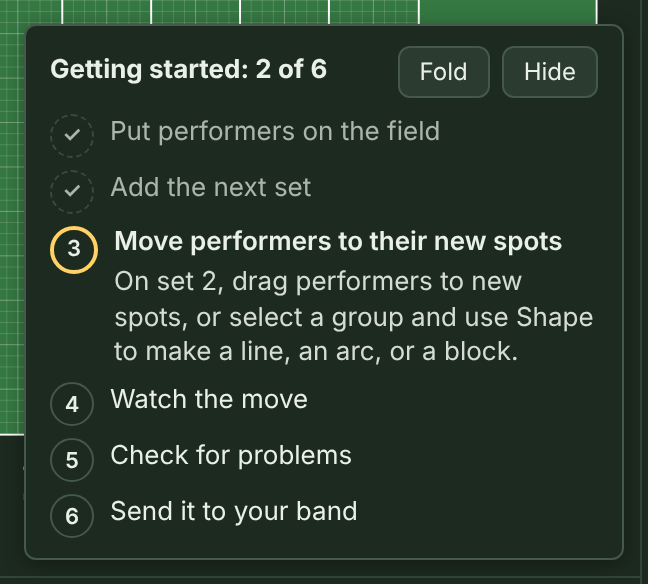
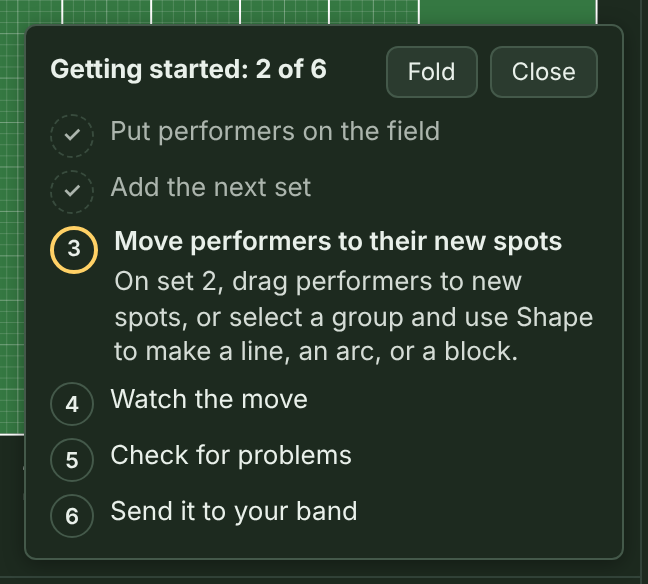
A calmer start: the Start note leads, the checklist is opt-in
- New starts in Select; it no longer pops the Add menu open (Jason).
- The Start your show note opens in the middle of a blank field, and steps
  aside while placing performers.
- The getting-started checklist is chosen, not pushed: "Getting started,
  step by step" on the note, or Help > Getting started checklist. With it on,
  the note becomes its step 1; Close turns it off for that show.

Claude-Session: https://claude.ai/code/session_012ak5ZU6YMQLnq6c3SxmXJ2

Changed region(s): [[0.5864, 0.0616, 0.8642, 0.1849]]

diff --git a/src/App.tsx b/src/App.tsx
@@ -338,25 +338,34 @@ export function App() {
   const warn = useMemo(() => new Set(pathSet < 1 ? [] : overLimit(show, pathSet)), [show, pathSet]); // ringed: over the step limit in this move
   const allIssues = useMemo(() => reviewShow(show), [show]);
   const { open: issues, dismissed } = useMemo(() => splitDismissed(show, allIssues), [show, allIssues]);
-  // The getting-started checklist: for shows started blank in this browser, until hidden (for good) or done. Per show,
-  // what the show can't tell by itself (pressed Play, opened Review, opened Share) is kept in this browser.
-  const gsKey = `freeform:getting-started:${show.id}`, GS_HIDDEN = 'freeform:getting-started-hidden';
+  // The getting-started checklist: turned on for a show with Getting started, step by step (on a blank field's Start note,
+  // or Help), and off with its Close (Jason: it's chosen, not pushed). Per show, what the show can't tell by itself
+  // (pressed Play, opened Review, opened Share) is kept in this browser, with the checklist being on.
+  const gsKey = `freeform:getting-started:${show.id}`;
   const readGs = (): Done | null => { try { const v = localStorage.getItem(gsKey); return v ? JSON.parse(v) : null; } catch { return null; } };
-  const [gs, setGs] = useState<{ id?: string; did: Done | null; hidden: boolean }>(() => ({ id: show.id, did: null, hidden: (() => { try { return localStorage.getItem(GS_HIDDEN) === '1'; } catch { return false; } })() }));
+  const [gs, setGs] = useState<{ id?: string; did: Done | null }>(() => ({ id: show.id, did: null }));
   const gsDid = gs.id === show.id ? gs.did : readGs();
-  const noteGs = (patch: Done) => {
-    const did = gsDid ?? (show.performers.length ? null : {}); // a blank show starts the checklist; one with performers that never had it doesn't
-    if (!did || !show.id) return;
-    const next = { ...did, ...patch };
-    try { localStorage.setItem(gsKey, JSON.stringify(next)); } catch { /* this visit only */ }
-    setGs((g) => ({ ...g, id: show.id, did: next }));
+  const writeGs = (did: Done | null) => {
+    try { if (did) localStorage.setItem(gsKey, JSON.stringify(did)); else localStorage.removeItem(gsKey); } catch { /* this visit only */ }
+    setGs({ id: show.id, did });
   };
-  useEffect(() => { if (!gs.hidden && !show.performers.length && !gsDid && show.id) noteGs({}); }, [show.id, show.performers.length]); // eslint-disable-line react-hooks/exhaustive-deps
+  const noteGs = (patch: Done) => { if (gsDid) writeGs({ ...gsDid, ...patch }); };
   useEffect(() => { if (playing && gsDid && !gsDid.played) noteGs({ played: true }); }, [playing]); // eslint-disable-line react-hooks/exhaustive-deps
   useEffect(() => { if (reviewing && gsDid && !gsDid.reviewed) noteGs({ reviewed: true }); }, [reviewing]); // eslint-disable-line react-hooks/exhaustive-deps
   useEffect(() => { if (sharing && gsDid && !gsDid.shared) noteGs({ shared: true }); }, [sharing]); // eslint-disable-line react-hooks/exhaustive-deps
-  const gsSteps = gsDid && !gs.hidden ? gettingStarted(show, gsDid, issues.length) : null;
-  const hideGs = () => { try { localStorage.setItem(GS_HIDDEN, '1'); } catch { /* this visit only */ } setGs((g) => ({ ...g, hidden: true })); };
+  const startGs = () => { if (!gsDid) writeGs({}); };
+  const hideGs = () => writeGs(null);
+  const gsSteps = gsDid ? gettingStarted(show, gsDid, issues.length) : null;
+  // The ways to begin a blank show: the Start note, and step 1 of the checklist when it's on.
+  const startOptions = <>
+    <span>Place performers on the field, bring in a roster from Excel, or look around the sample show first. On a new computer? Open your show from its phone link or recovery code.</span>
+    <span style={{ display: 'flex', gap: 8, flexWrap: 'wrap', marginTop: 6 }}>
+      <button className="primary" onClick={() => { setTool('add'); setOpenAdd((n) => n + 1); }}>Place performers</button>
+      <button onClick={() => setRoster(true)}>Import a roster…</button>
+      <button onClick={() => trySample()}>Try the sample show</button>
+      <button onClick={() => setLibrary('link')} title="Open a show from the link students use, or from a recovery code from your other computer">Open from a link or recovery code…</button>
+    </span>
+  </>;
   const saved = saveStatus({
     browserOk: saveFailed === 'no', unexported, fileSavedAt, revision: show.revision, changedSincePublish: revisionLabel(show).endsWith('+ changes'),
     when: (ms) => (new Date(ms).toDateString() === new Date().toDateString() ? new Date(ms).toLocaleTimeString([], { hour: 'numeric', minute: '2-digit' }) : new Date(ms).toLocaleDateString([], { month: 'short', day: 'numeric' })),
@@ -885,7 +894,7 @@ export function App() {
   const fresh = async () => {
     await flush();
     openShow(newShow(startingSections())); // nothing to back up yet
-    setTool('add'); setOpenAdd((n) => n + 1); // a blank field: straight to placing performers (Jason)
+    setTool('select'); // the blank field's note leads: Place performers, Import a roster, or the sample (Jason, 2026-11-11)
   };
   const [openAdd, setOpenAdd] = useState(0);
   // The docs' demo show, to look around in before writing one (or the practice show, with problems to fix): a show of its own in the library.
@@ -995,6 +1004,7 @@ export function App() {
             <div style={{ display: 'flex', flexDirection: 'column', gap: 6, alignItems: 'stretch' }}>
               <button onClick={() => { close(); window.open(GUIDE, '_blank', 'noopener'); }} title="The step-by-step guide, with pictures (opens in a new tab)">How-to guide</button>
               <button onClick={() => { close(); trySample(); }} title="Open the 47-performer sample show as a show of its own (yours stays under Shows…)">Try the sample show</button>
+              <button onClick={() => { close(); startGs(); }} disabled={!!gsDid} title={gsDid ? 'The checklist is already on for this show' : 'A short checklist from a blank field to a show on your band\'s phones, for this show'}>Getting started checklist</button>
               <button onClick={() => { close(); trySample(true); }} title="The sample with three problems to find and fix, each explained in its set's notes. Open Review to start (yours stays under Shows…)">Try the practice show</button>
               <button onClick={() => { close(); setFeedback(true); }} title="Report a problem or suggest something: it goes straight to me, with no account needed">Send feedback</button>
               <button onClick={() => { close(); window.open('https://ko-fi.com/tillerdawg', '_blank', 'noopener'); }} title="FreeFORM is free and always will be. A tip on Ko-fi helps with hosting (opens in a new tab)">Support FreeFORM</button>
@@ -1040,15 +1050,18 @@ export function App() {
           }}
           onPointerLeave={() => setHover('')}
         />
-        {show.performers.length === 0 && !otherTab && (
-          <div className="backup-note" role="group" aria-label="Start a show">
-            <span><strong>Start your show.</strong> Place performers on the field, bring in a roster from Excel, or look around the sample show first. On a new computer? Open your show from its phone link or recovery code.</span>
-            <button className="primary" onClick={() => { setTool('add'); setOpenAdd((n) => n + 1); }}>Place performers</button>
-            <button onClick={() => setRoster(true)}>Import a roster…</button>
-            <button onClick={() => trySample()}>Try the sample show</button>
-            <button onClick={() => setLibrary('link')} title="Open a show from the link students use, or from a recovery code from your other computer">Open from a link or recovery code…</button>
-          </div>
-        )}
+        {/* A blank field: the Start note in the middle of the field (Jason). With the checklist on, the note is its step 1.
+            While placing performers, both get out of the field's middle: the checklist moves to the corner, the note goes. */}
+        {show.performers.length === 0 && !otherTab && (gsSteps
+          ? <GettingStarted steps={gsSteps} onHide={hideGs} start={tool === 'select' ? startOptions : undefined} />
+          : tool === 'select' && (
+            <section className="getting-started center" aria-label="Start your show">
+              <strong style={{ display: 'block', fontSize: 16, marginBottom: 6 }}>Start your show</strong>
+              {startOptions}
+              <p style={{ margin: '12px 0 0', paddingTop: 10, borderTop: '1px solid var(--line)' }}>
+                New to writing drill in FreeFORM? <button onClick={startGs} title="A short checklist that walks you from a blank field to a show on your band's phones, and ticks itself off as you go">Getting started, step by step</button>
+              </p>
+            </section>))}
         {otherTab && (
           <div role="alert" className="backup-note">
             <span>"{show.title || 'This show'}" was changed in another tab. Changes here aren't saved until you choose which version to keep.</span>
@@ -1079,7 +1092,7 @@ export function App() {
           <button className="icon" onClick={() => zoomBy(1.25)} title="Zoom in (⌘+ / Ctrl+= with the mouse over the field)" aria-label="Zoom in"><IconZoomIn /></button>
           <button onClick={fit} title="Fit: zoom out to the whole field (F)" aria-label="Fit field"><IconFit /> Fit</button>
         </div>}
-        {gsSteps && !reviewing && <GettingStarted steps={gsSteps} onHide={hideGs} />}
+        {gsSteps && show.performers.length > 0 && !reviewing && <GettingStarted steps={gsSteps} onHide={hideGs} />}
         {reviewing && <ReviewPanel show={show} setShow={setShow} issues={issues} all={allIssues} dismissed={dismissed} onGo={goToIssue} onClose={() => setReviewing(false)} />}
         {/* Floats over the field so its changing length can't move the layout. */}
         {(notice?.t === t || hover) && (

diff --git a/src/ui/GettingStarted.tsx b/src/ui/GettingStarted.tsx
@@ -1,26 +1,29 @@
-// The getting-started checklist card, in the field's bottom-right corner (see gettingStarted.ts for the steps).
-import { useState } from 'react';
+// The getting-started checklist card (see gettingStarted.ts for the steps). On a blank field it's the "Start your show"
+// card in the middle of the field, with step 1's ways to begin as buttons; once performers are on the field it moves to
+// the bottom-right corner, out of the way of the drill.
+import { useState, type ReactNode } from 'react';
 import type { Step } from './gettingStarted';
 
-export function GettingStarted({ steps, onHide }: { steps: Step[]; onHide: () => void }) {
+export function GettingStarted({ steps, onHide, start }: { steps: Step[]; onHide: () => void; start?: ReactNode }) {
   const [small, setSmall] = useState(false);
   const n = steps.filter((s) => s.done).length, next = steps.findIndex((s) => !s.done);
+  const center = !!start && next === 0; // a blank field: the card is where you start
   return (
-    <section className="getting-started" aria-label="Getting started">
+    <section className={center ? 'getting-started center' : 'getting-started'} aria-label={center ? 'Start your show' : 'Getting started'}>
       <div style={{ display: 'flex', alignItems: 'center', gap: 6 }}>
-        <strong style={{ flex: 1 }}>Getting started: {n} of {steps.length}</strong>
-        <button onClick={() => setSmall(!small)} aria-expanded={!small} title={small ? 'Show the steps' : 'Fold the list down to this line'}>{small ? 'Show' : 'Fold'}</button>
-        <button onClick={onHide} title="Hide this list for good (it won't come back on new shows)">Hide</button>
+        <strong style={{ flex: 1, fontSize: center ? 16 : undefined }}>{center ? 'Start your show' : `Getting started: ${n} of ${steps.length}`}</strong>
+        {!center && <button onClick={() => setSmall(!small)} aria-expanded={!small} title={small ? 'Show the steps' : 'Fold the list down to this line'}>{small ? 'Show' : 'Fold'}</button>}
+        <button onClick={onHide} title="Close the checklist for this show (Help, then Getting started checklist, brings it back)">Close</button>
       </div>
       {!small && (next < 0
-        ? <p style={{ margin: '6px 0 0' }}>All six done: you've written a move and sent it to your band. The guide (Help, then How-to guide) has the rest. <strong>Hide</strong> puts this list away.</p>
+        ? <p style={{ margin: '6px 0 0' }}>All six done: you've written a move and sent it to your band. The guide (Help, then How-to guide) has the rest. <strong>Close</strong> puts this list away.</p>
         : <ol>
           {steps.map((s, k) => (
             <li key={s.id} aria-current={k === next ? 'step' : undefined} className={s.done ? 'done' : undefined}>
               <span aria-hidden className="gs-mark">{s.done ? '✓' : k + 1}</span>
-              <span>
+              <span style={{ flex: 1 }}>
                 {s.title}{s.done && <span className="sr-only"> (done)</span>}
-                {k === next && <span className="gs-hint">{s.hint}</span>}
+                {k === next && (center ? <span className="gs-hint gs-start">{start}</span> : <span className="gs-hint">{s.hint}</span>)}
               </span>
             </li>
           ))}

diff --git a/app/index.html b/app/index.html
@@ -170,6 +170,9 @@
       .getting-started { position: absolute; right: 8px; bottom: 8px; width: 300px; max-width: calc(100% - 16px); box-sizing: border-box; padding: 10px 12px;
         background: var(--bg); border: 1px solid var(--line-strong); border-radius: 6px; font-size: 13px; line-height: 1.35; box-shadow: 0 2px 10px rgba(0,0,0,0.35); }
       .getting-started button { font-size: 12px; }
+      .getting-started.center { right: auto; bottom: auto; top: 50%; left: 50%; transform: translate(-50%, -50%); z-index: 5; width: min(520px, calc(100% - 32px));
+        max-height: calc(100% - 16px); overflow-y: auto; padding: 14px 16px; border: 2px solid var(--warn); font-size: 14px; box-shadow: 0 6px 16px rgba(0,0,0,0.45); } /* a blank field: where you start */
+      .getting-started.center .gs-start button { font-size: 14px; }
       .getting-started ol { list-style: none; margin: 8px 0 0; padding: 0; display: grid; gap: 6px; }
       .getting-started li { display: flex; gap: 8px; align-items: flex-start; }
       .getting-started li.done { opacity: 0.7; }

diff --git a/docs/HOW-TO.md b/docs/HOW-TO.md
@@ -50,7 +50,7 @@ One thing to know up front: **your shows are saved in the browser you're using.*
 
 From top to bottom:
 
-- **The top bar** has the logo, a reminder of how to move around the field, **Help** (the **How-to guide**, which opens this guide in a new tab at freeformdrill.org/guide/, **Try the sample show**, **Try the practice show** (the sample with three problems to find and fix), **Send feedback**, a short form to report a problem or suggest something (it goes straight to me, with no account needed), **Support FreeFORM**, a tip jar on Ko-fi (FreeFORM is free either way), and **About FreeFORM Drill**, the front page), **Layout** (**Sidebar on the left** or right, **Timeline at the top** or bottom, and **White field** or green; this browser remembers your choices), and at the far right the sun/moon button, which switches between dark mode and light mode. Until you click it, FreeFORM follows your computer's or iPad's own light or dark setting. The field looks the same either way.
+- **The top bar** has the logo, a reminder of how to move around the field, **Help** (the **How-to guide**, which opens this guide in a new tab at freeformdrill.org/guide/, **Try the sample show**, **Getting started checklist**, **Try the practice show** (the sample with three problems to find and fix), **Send feedback**, a short form to report a problem or suggest something (it goes straight to me, with no account needed), **Support FreeFORM**, a tip jar on Ko-fi (FreeFORM is free either way), and **About FreeFORM Drill**, the front page), **Layout** (**Sidebar on the left** or right, **Timeline at the top** or bottom, and **White field** or green; this browser remembers your choices), and at the far right the sun/moon button, which switches between dark mode and light mode. Until you click it, FreeFORM follows your computer's or iPad's own light or dark setting. The field looks the same either way.
 - **The drill toolbar** has two rows. The first row has **Select**, **Add** (performers, a set, or a prop), and **Delete**, then the set you're on with its **Counts** and **Measures**. At the right end are Undo and Redo. The second row has the tools for placing and moving performers: **Snap to grid**, **Markup**, **Shape**, **Mirror**, **Rotate & Scale**, **Path**, **Move**, **Labels**, and **Reset to set**. At its right end are the timeline button and the sidebar button.
 - **The field** is in the middle. You're looking at it from the press box: the front sideline is at the bottom and Side 1 is on the left. Scroll to move around, and pinch (or hold ⌘ or Ctrl and scroll) to zoom. The zoom buttons sit in the field's top-right corner: **−** and **+** zoom out and in, the number between them is how far you're zoomed (100% shows the whole field), and **Fit** zooms back out to the whole field.
 - **A white field.** If you'd rather write on paper colors, choose **Layout → White field**. The turf turns white with black lines, letters, and labels. Selected performers keep their gold, with a dark ring, and step warnings keep their colors on a dark edge. **Layout → Green field** switches back. It only changes what you see on this computer or iPad: printed charts are always black on white, and videos stay green. Phones have their own **White field** button.
@@ -63,11 +63,11 @@ From top to bottom:
 
 Click **New** in the sidebar to start a show. The show you had open stays in this browser: **Shows…** opens it again (see [Several shows: Opener, Ballad, Closer](#saving-backing-up-and-opening-files)).
 
-When the field has no performers, a note over it offers four ways to begin: **Place performers** opens the **Add** menu so you can pick a section and start clicking, **Import a roster…** brings in a list from Excel (see **Names** under [Add performers](#add-performers)), **Try the sample show** opens a finished 47-performer show to look around in first, and **Open from a link or recovery code…** brings in a show you published from another computer (see [A new computer or iPad mid-season](#send-the-show-to-your-performers)). **Help** (in the top bar), then **Try the sample show**, opens the same show any time. It opens as a show of its own, so yours stays under **Shows…**.
+When the field has no performers, the **Start your show** note in the middle of the field offers four ways to begin: **Place performers** opens the **Add** menu so you can pick a section and start clicking, **Import a roster…** brings in a list from Excel (see **Names** under [Add performers](#add-performers)), **Try the sample show** opens a finished 47-performer show to look around in first, and **Open from a link or recovery code…** brings in a show you published from another computer (see [A new computer or iPad mid-season](#send-the-show-to-your-performers)). **Help** (in the top bar), then **Try the sample show**, opens the same show any time. It opens as a show of its own, so yours stays under **Shows…**. While you're placing performers, the note gets out of the way.
 
-![The note on a blank field](img/start.png)
+![The Start your show note on a blank field](img/start.png)
 
-**Getting started.** A new show also gets a short checklist in the field's bottom-right corner: put performers on the field, add the next set, move performers to their new spots, watch the move, check for problems in **Review**, and send it to your band. Each step ticks itself off when you do it, and the next one says how. Nothing is locked: do things in any order. **Fold** shrinks it to one line, and **Hide** puts it away for good (it won't come back on later shows). It only appears on shows you start blank, not the sample or a show you open from a file.
+**Getting started, step by step.** New to FreeFORM? Click **Getting started, step by step** at the bottom of the **Start your show** note (or **Help**, then **Getting started checklist**, on any show) for a short checklist: put performers on the field, add the next set, move performers to their new spots, watch the move, check for problems in **Review**, and send it to your band. On a blank field, the note becomes its first step. Once you're placing performers, it moves to the field's bottom-right corner. Each step ticks itself off when you do it, and the next one says how. Nothing is locked: do things in any order. **Fold** shrinks it to one line, and **Close** turns it off for that show.
 
 ![The getting-started checklist](img/getting-started.png)
 

diff --git a/DECISIONS.md b/DECISIONS.md
@@ -1567,3 +1567,10 @@ Each entry: timestamp, who decided, context, options considered, decision.
 - **Save status chip:** one line in the top bar, "Browser ✓ · File: 2:14 PM · Phones: rev 6", that never wraps (cut off with "…" if the window is narrow, the full line in its tooltip), so the top bar's height never changes. File says the time of the last Save, **unsaved changes**, or **no changes**; Phones says the revision, **+ changes**, or **not published**. When something isn't saved somewhere it could be, it also gets a dashed outline (shape, not just color). Clicking it opens a sentence per layer with **Save**, **Save As…**, **Full backup…** (when it applies), and **Share…** or **Publish update…**. The time of the last file save is now kept per show in this browser.
 - **Handles by keyboard:** Tab and Shift+Tab step through the open shape's handles, but only when nothing else has focus (after clicking the field or using a shape's shortcut key), so Tab still moves through buttons normally. Tab past the last handle goes on to the page. The handle gets a gold ring with a dark edge (it shows on the green field and the white one), and the note at the bottom of the field names it ("Arc, middle") and says where it is, for screen readers too. Arrows move 1 step (Shift 4, Option/Alt half), the same as nudging performers; Enter keeps; Esc puts it back where it was when picked (Esc again closes the shape, as before). Path points, follow-the-leader turns, and props are next.
 
+## 2026-11-11: A calmer start for a new show
+- **Who:** Jason Tiller (the checklist's timing was proposed by Claude; Jason picked how **New** starts)
+- **Context:** After **New**, three things competed: the **Add** menu (opened by **New**, from before the blank field had its own note), the "Start your show" note, and the getting-started checklist at 0 of 6.
+- **Options:** for **New**: Add Performer ready with the menu closed; the menu open with the note hidden; or plain Select with the note leading.
+- **Decision:** **New** starts in Select, like any show, and the blank field's note leads (**Place performers**, **Import a roster…**, the sample, or a link).
+- **Update (same day, Jason):** the note opens in the middle of the field, and the checklist is chosen, not pushed: the note has a **Getting started, step by step** button (and **Help** has **Getting started checklist** for any show). With the checklist on, a blank field's note becomes its step 1 (the four ways to begin as its buttons, steps 2 to 6 listed under it); **Close** turns it off for that show, replacing the earlier "Hide for good". While placing performers, the note leaves and the checklist moves to the bottom-right corner, so neither covers the middle of the field (Claude's call; Jason can veto).
+

diff --git a/PLAN.md b/PLAN.md
@@ -76,7 +76,7 @@
 - ✅ Phones say where their copy stands, in one line: **Ready offline** (with the music, if it's there), the revision, and for a hosted link whether it's the latest, checking, offline, or couldn't check, with a **Check for updates** button. The phone checks again on its own when signal comes back.
 - ✅ A two-minute student guide, in English and Spanish, at freeformdrill.org/students/ and /es/students/ (docs/STUDENTS.md and STUDENTS.es.md), linked from the phone's first screen and the bottom of **My dots**, which now has the **Español** / **English** button too. Follow-up: have a Spanish-speaking director check the Spanish.
 - ✅ The sample show is finished (Review finds nothing: set 4 has 16 counts, and the Opener is 48 counts), and **Help → Try the practice show** opens the same drill with three problems to fix (a too-close pair, a too-fast move, counts with no sets), each explained in its set's notes. The warning screenshots come from the practice show.
-- ✅ A getting-started checklist on shows started blank: six steps that tick themselves off (performers, next set, a move, play, a clean Review, share), with the next step's how-to; **Fold** and **Hide** (for good). Follow-up: see whether pilot directors use it or hide it.
+- ✅ A getting-started checklist, chosen with **Getting started, step by step** on the blank field's **Start your show** note (in the middle of the field) or in **Help**: six steps that tick themselves off (performers, next set, a move, play, a clean Review, share), with the next step's how-to; **Fold** and **Close**. **New** starts in Select, with the note leading. Follow-up: see whether pilot directors pick it.
 - ✅ A save status chip in the top bar: "Browser ✓ · File: 2:14 PM · Phones: rev 6" (dashed outline when something isn't saved), opening to a sentence per layer with **Save**, **Save As…**, **Full backup…**, and **Share…** / **Publish update…**.
 - ✅ ⌘/Ctrl +, −, and 0 zoom the field only with the mouse over it (or a zoom button focused); anywhere else they're the browser's page zoom.
 - ✅ The phone's **Loop** panel takes focus when it opens (Tab stays inside, Esc closes it, focus goes back to **Loop**).

diff --git a/README.md b/README.md
@@ -68,7 +68,7 @@ A note on where the ideas came from: FreeFORM is modeled on Pyware and the Ultim
 - A warning when the same show is changed in two tabs, instead of one quietly saving over the other.
 - **Full backup…**: a show file that also holds the recording and tracing picture, to move a show to another computer complete.
 - A sample show to look around in before you write your own, and a practice show: the same drill with three problems to find and fix in Review, each explained in its notes.
-- A getting-started checklist on new shows (performers, the next set, a move, play it, Review, share) that ticks itself off as you go and hides for good with one click.
+- A getting-started checklist, a click away on a blank field's Start note (or in Help): performers, the next set, a move, play it, Review, and share, ticking itself off as you go.
 - Shape handles you can move with the keyboard: Tab steps through them, arrows move them.
 - Import Pyware 3D (`.3dj`) shows, tested with files from 2008 to 2010.
 
